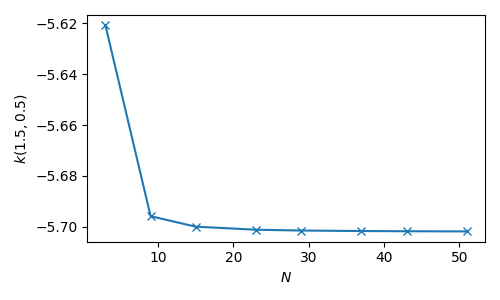
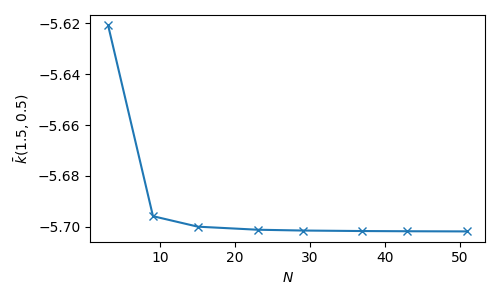
minor edits

diff --git a/kernel_PDE.py b/kernel_PDE.py
@@ -71,7 +71,7 @@ if __name__ == "__main__":
     # ax1 = fig.add_subplot(111)
     # ax1.plot(grid_size, k_vs_N, marker='x')
     # ax1.set_xlabel(r'$N$')
-    # ax1.set_ylabel(r'$k(1.5, 0.5)$')
+    # ax1.set_ylabel(r'$\bar{k}(1.5, 0.5)$')
     # plt.tight_layout()
     # plt.savefig("Figures/accuracy.png")
 
@@ -89,9 +89,9 @@ if __name__ == "__main__":
     # # plt.show()
     # plt.savefig("Figures/kernel_contour.png")
 
-    # k1.calculate_gain()
-    # fig = plt.figure()
-    # ax1 = fig.add_subplot(111)
-    # ax1.scatter(k1.y, k1.gain - k1.gain_analytical, marker='x')
-    # plt.show()
+    # # k1.calculate_gain()
+    # # fig = plt.figure()
+    # # ax1 = fig.add_subplot(111)
+    # # ax1.scatter(k1.y, k1.gain - k1.gain_analytical, marker='x')
+    # # plt.show()
     pass

diff --git a/notes.md b/notes.md
@@ -21,10 +21,10 @@ The following steps are considered to find a numerical solution of the Kernel fu
 
 ### Change of variables
 Consider the change of variables $\xi = x + y$ and $\eta = x - y$. The PDE takes the form:
-$$\frac{\partial^2 k(\xi, \eta)}{\partial \xi \partial \eta} = \frac{\lambda + c}{4} k(\xi, \eta)$$
+$$\frac{\partial^2 \bar{k}(\xi, \eta)}{\partial \xi \partial \eta} = \frac{\lambda + c}{4} \bar{k}(\xi, \eta)$$
 with boundary conditions
- $$k(\xi, \xi) = 0, \ \ k(\xi, 0) = -\frac{\lambda + c}{4}\xi$$
-Now, the second-order mixed derivative can be integrated.
+$$\bar{k}(\xi, \xi) = 0, \ \ \bar{k}(\xi, 0) = -\frac{\lambda + c}{4}\xi$$
+where $\bar{k}(\xi, \eta)$ is the kernel function $k(x, y)$ in the new spatial variables. Now, the second-order mixed derivative can be integrated.
 
 <p align="center">
   <img src="Figures/kernel1.png" alt="Kernel domains"/>
@@ -35,9 +35,9 @@ Now, the second-order mixed derivative can be integrated.
 
 ### Transform differential equation to integral equation
 Integrate the first equation with respect to $\eta$ from $0$ to $\eta$ and apply the second boundary condition to get:
-$$\frac{\partial k(\xi, \eta)}{\partial \xi} = -\frac{\lambda + c}{4} + \frac{\lambda + c}{4}\int_0^{\eta} k(\xi, \sigma)d\sigma$$
+$$\frac{\partial \bar{k}(\xi, \eta)}{\partial \xi} = -\frac{\lambda + c}{4} + \frac{\lambda + c}{4}\int_0^{\eta} \bar{k}(\xi, \sigma)d\sigma$$
 Then, integrate this equation with respect to $\xi$ from $\eta$ to $\xi$ and apply the first boundary condition to get:
-$$k(\xi, \eta) = -\frac{\lambda + c}{4}(\xi - \eta) + \frac{\lambda + c}{4}\int_{\eta}^{\xi}\int_0^{\eta} k(\rho, \sigma) d\sigma d\rho$$
+$$\bar{k}(\xi, \eta) = -\frac{\lambda + c}{4}(\xi - \eta) + \frac{\lambda + c}{4}\int_{\eta}^{\xi}\int_0^{\eta} \bar{k}(\rho, \sigma) d\sigma d\rho$$
 Now the partial differential equation has taken the form of an integral equation. 
 
 ### Discretize the domin and solve system of equations
@@ -51,8 +51,8 @@ To find an approximate solution to the integral equation numerically, the triang
 </p>
 
 Then, the integrals of the last equation are approximated by the use of the composite trapezoidal rule, given as:
-$$k_{i, j} = -\frac{\lambda + c}{4}(\xi_i - \eta_j) + \frac{\lambda + c}{4}\left(\frac{h^2}{4}\right)\sum_{m=j}^{i-1}\sum_{n=0}^{j-1}\left(k_{m, n} + k_{m, n + 1} + k_{m + 1, n} + k_{m + 1, n + 1}\right)$$
-for $j = 0, 1, \cdots, N - 1$ and $i = j, j + 1, \cdots, 2N - j - 1$. In this equation, $k_{i, j} = k(\xi_i, \eta_j)$ is the value of the discretized kernel function and $h = 1 / (N - 1)$ is the grid size. When written for all grid points, these equations form a system of linear equations that can be solved efficiently.
+$$\bar{k}_{i, j} = -\frac{\lambda + c}{4}(\xi_i - \eta_j) + \frac{\lambda + c}{4}\left(\frac{h^2}{4}\right)\sum_{m=j}^{i-1}\sum_{n=0}^{j-1}\left(\bar{k}_{m, n} + \bar{k}_{m, n + 1} + \bar{k}_{m + 1, n} + \bar{k}_{m + 1, n + 1}\right)$$
+for $j = 0, 1, \cdots, N - 1$ and $i = j, j + 1, \cdots, 2N - j - 1$. In this equation, $\bar{k}_{i, j} = \bar{k}(\xi_i, \eta_j)$ is the value of the discretized kernel function and $h = 1 / (N - 1)$ is the grid size. When written for all grid points, these equations form a system of linear equations that can be solved efficiently.
 
 ## Choosing a value for $N$
 For a given $N$, there are about $N^2$ equations to solve, therefore, this value determines the trade-off between the accuracy of the numerical method and its computational cost. The following figure shows, for different grid-sizes, the value of the kernel function at a boundary point with a converging behaviour for $\lambda = 10$ and $c = 0$. A grid-size of about $N = 25$ seems to be a good choice.
@@ -64,7 +64,7 @@ For a given $N$, there are about $N^2$ equations to solve, therefore, this value
   Accuracy vs grid size
 </p>
 
-The following figure shows the numerical solution to the kernel PDEs for $\lambda = 10$, $c = 0$ and selected grid-size $N = 25$.
+The following figure shows the numerical solution to the kernel PDEs $k(x, y)$ for $\lambda = 10$, $c = 0$ and selected grid-size $N = 25$.
 <p align="center">
   <img src="Figures/kernel_contour.png" alt="kernel contour"/>
 </p>

diff --git a/README.md b/README.md
@@ -6,3 +6,10 @@ The backstepping method is a powerful approach in controlling systems modeled by
 In this method, an integral transformation is employed to map the evolution of the control system to the solution of a target system whose stability is already demonstrated. The control problem is then reduced to finding the solution of another PDE that describes the kernel of the integral transformation, referred to as the kernel PDE.
 
 This repository is an implementation of a numerical method proposed by [Jadachowski *et el.* (2012)](https://doi.org/10.3182/20120215-3-AT-3016.00141) to approximate the solution of the kernel PDE.
+
+<p align="center">
+  <img src="Figures/kernel_contour.png" alt="kernel contour"/>
+</p>
+<p align="center">
+  The kernel function
+</p>
